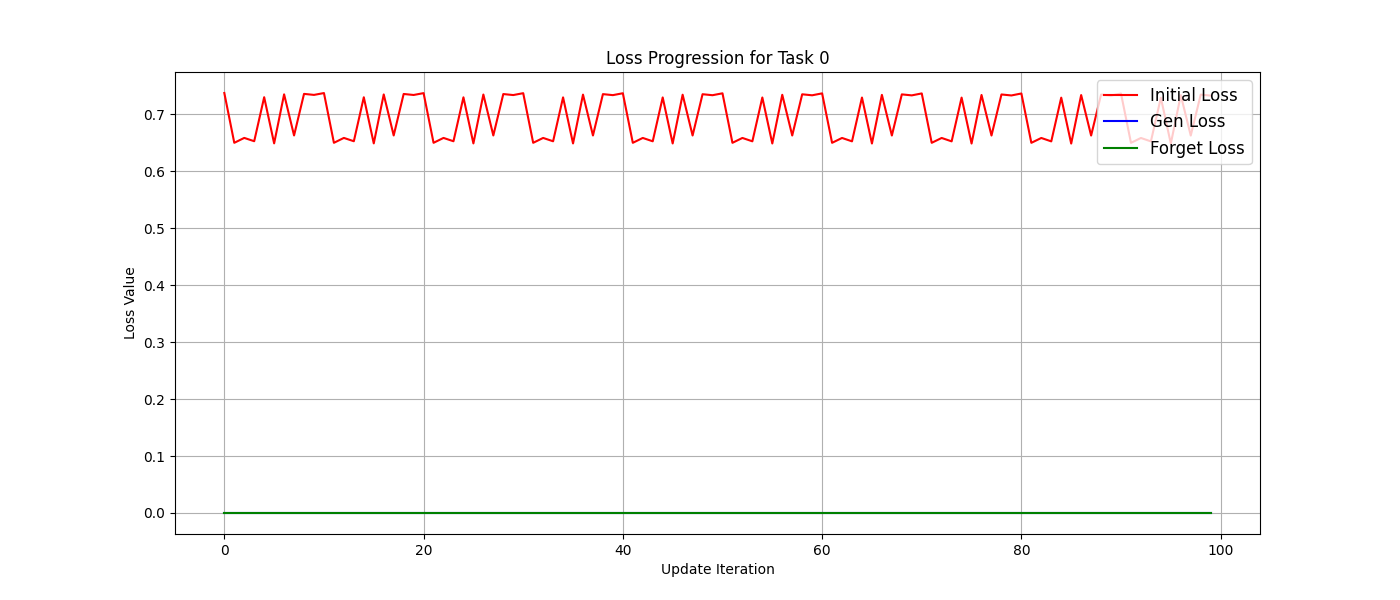
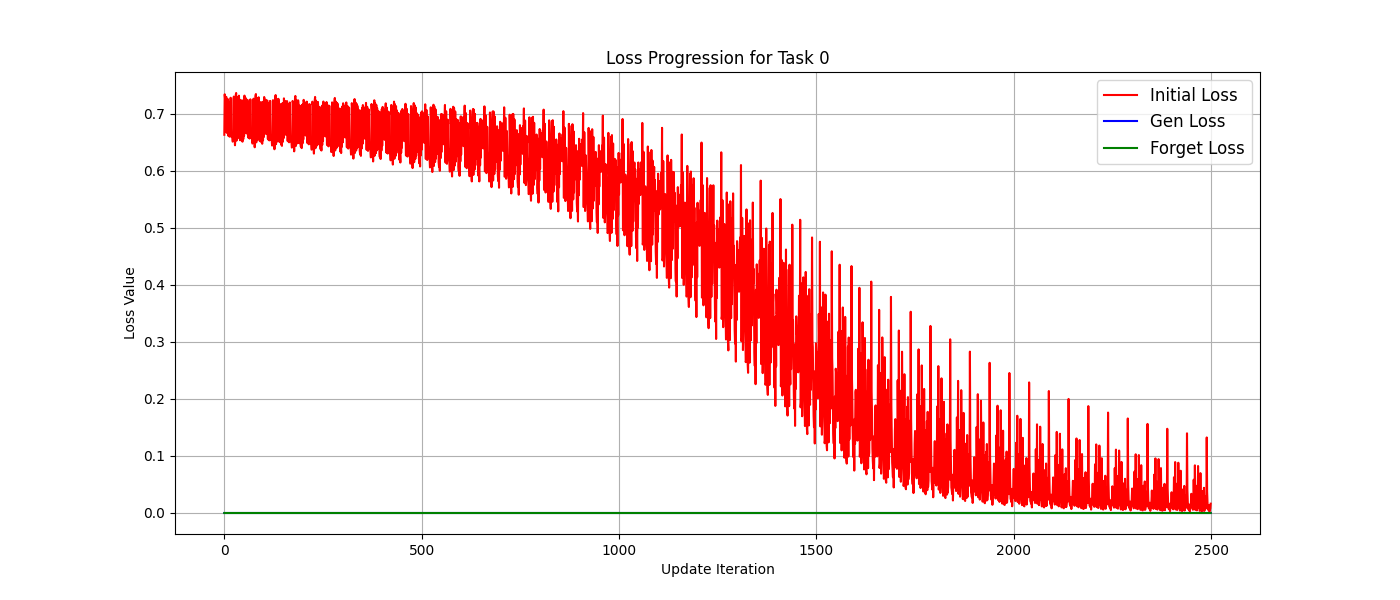
Before Running on GPU

diff --git a/bcl_model.py b/bcl_model.py
@@ -30,7 +30,7 @@ def remap_labels(target):
 
 
 class BCLModel:
-    def __init__(self, model, lr=0.0001, epsilon=0.0001, k_range=10, x_updates=5, theta_updates=5):
+    def __init__(self, model, lr=0.001, epsilon=0.01, k_range=100, x_updates=15, theta_updates=15):
         self.model = model
         self.optimizer = optim.SGD(self.model.parameters(), lr=lr)
         self.criterion = nn.CrossEntropyLoss()
@@ -79,7 +79,7 @@ class BCLModel:
                 temp_model_optimizer.step()
 
             # Jk (θ^(i+ζ) k) − Jk (θ^i k )
-            forget_loss = initial_loss_2 - forget_loss
+            forget_loss = forget_loss - initial_loss_2
             loss += initial_loss + gen_loss + forget_loss.detach()
         else:
             loss = self.criterion(self.model(data, task_id), target)

diff --git a/main.py b/main.py
@@ -6,7 +6,7 @@ from visualize import plot_loss
 
 def main():
     # Load data
-    tasks_train, tasks_test = load_split_mnist_data(batch_size=1, max_samples_per_task=10)
+    tasks_train, tasks_test = load_split_mnist_data(batch_size=1, max_samples_per_task=500)
 
     # Initialize model
     model = TaskSpecificMLP()
